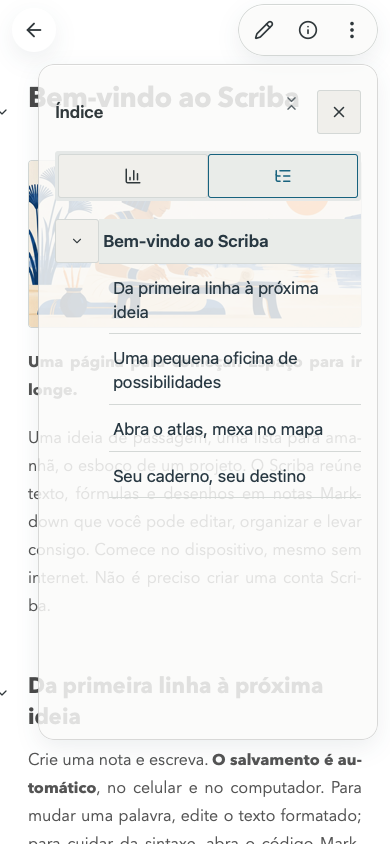
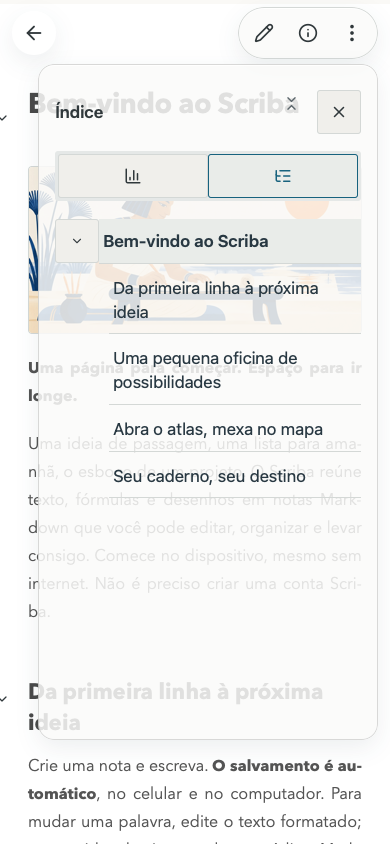
fix: preserve menu layering and handle already activated web updates

diff --git a/src/ui.css b/src/ui.css
@@ -116,7 +116,7 @@
   color: var(--text-primary); background: var(--ui-glass-selected); border-color: var(--ui-glass-edge);
 }
 .editor-app [aria-label="Bancada Markdown"] > header [role="group"] { border: 0; border-radius: 999px; padding: 2px; }
-.editor-app [class*="mobileReadingBar"] { z-index: 6; background: transparent; }
+.editor-app [class*="mobileReadingBar"] { z-index: var(--ui-layer-controls); background: transparent; }
 .editor-app [class*="mobileReadingBar"] > div { border-radius: 999px; padding: 3px; }
 .editor-app .notes-sidebar { background: var(--ui-glass-sidebar); }
 .editor-app dialog[data-ui] > header { background: transparent; }
@@ -136,7 +136,9 @@ html[data-reduce-transparency="true"] {
   --ui-glass-blur: none; --ui-glass-edge: var(--border-strong); --ui-glass-selected: var(--bg-hover);
 }
 @media (max-width: 899px) {
-  .editor-app [class*="mobileReadingBar"] { position: relative; margin-bottom: -62px; min-height: 62px; padding-block: 7px; }
-  .editor-app [class*="mobileReadingBar"] ~ [class*="documentArea"] [data-document-scroll] { padding-top: 66px; }
+  .editor-app [data-mode="read"] > [class*="mobileReadingBar"] { position: relative; margin-bottom: -62px; min-height: 62px; padding-block: 7px; }
+  .editor-app [data-mode="read"] > [class*="mobileReadingBar"] ~ [class*="documentArea"] [data-document-scroll] { padding-top: 66px; }
   .editor-app [class*="mobileReadingBar"] > button { background: var(--ui-glass-fill); border: 1px solid var(--ui-glass-edge); box-shadow: var(--ui-glass-shadow); -webkit-backdrop-filter: var(--ui-glass-blur); backdrop-filter: var(--ui-glass-blur); }
 }
+
+@media (max-width: 899px) { .editor-app .notes-sidebar { z-index: var(--ui-layer-sidebar); } }

diff --git a/src/usePwa.ts b/src/usePwa.ts
@@ -35,10 +35,16 @@ export function usePwa() {
   async function install(){if(!installEvent)return;void navigator.storage?.persist?.().catch(()=>false);await installEvent.prompt();await installEvent.userChoice;setInstallEvent(null);}
   async function applyUpdate() {
     const waiting=registrationRef.current?.waiting;
-    if(!waiting)throw new Error('No installed update is waiting');
+    // Another tab may already have activated the shared worker after this notice appeared.
+    // The caller has persisted the current draft, so reloading is safe in that state too.
+    if(!waiting || waiting.state==='activated'){setUpdateAvailable(false);location.reload();return;}
     await new Promise<void>((resolve,reject)=>{
       const changed=()=>{clearTimeout(timer);resolve();location.reload();};
-      const timer=window.setTimeout(()=>{navigator.serviceWorker.removeEventListener('controllerchange',changed);reject(new Error('Update activation timed out'));},15000);
+      const timer=window.setTimeout(()=>{
+        navigator.serviceWorker.removeEventListener('controllerchange',changed);
+        if(!registrationRef.current?.waiting || waiting.state==='activated'){setUpdateAvailable(false);resolve();location.reload();}
+        else reject(new Error('Update activation timed out'));
+      },15000);
       navigator.serviceWorker.addEventListener('controllerchange',changed,{once:true});
       waiting.postMessage({type:'SCRIBA_APPLY_UPDATE'});
     });

diff --git a/src/tokens.css b/src/tokens.css
@@ -1031,3 +1031,5 @@ html[data-platform="ios"] { --ui-body-size: calc(1rem * var(--ui-font-scale, 1))
   --ui-glass-shadow: 0 8px 28px #18303d14, inset 0 1px 0 var(--ui-glass-highlight);
   --ui-glass-selected: #ffffffc7;
 }
+
+:root { --ui-layer-controls: 2; --ui-layer-sidebar: 10; }
